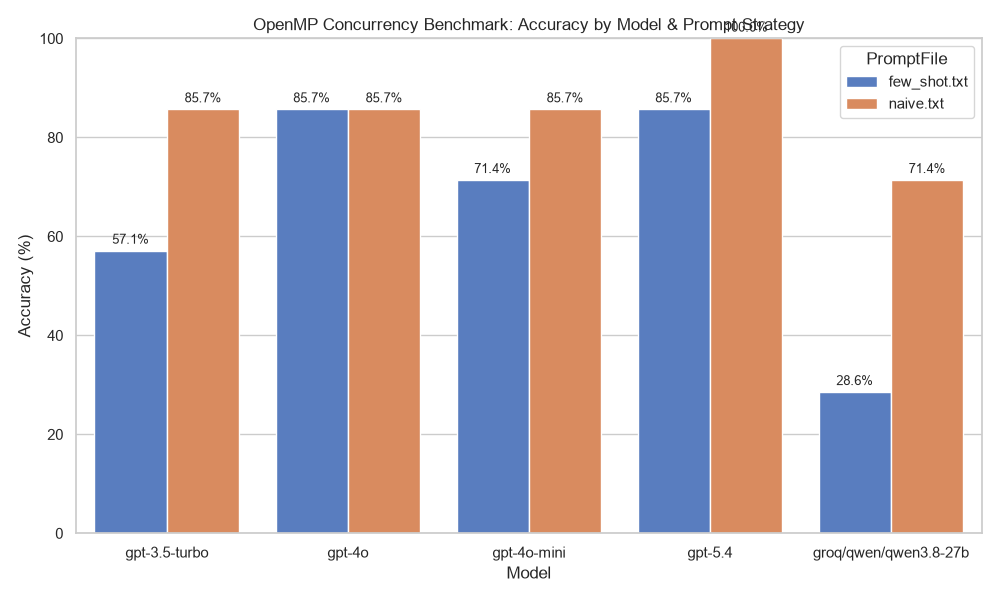
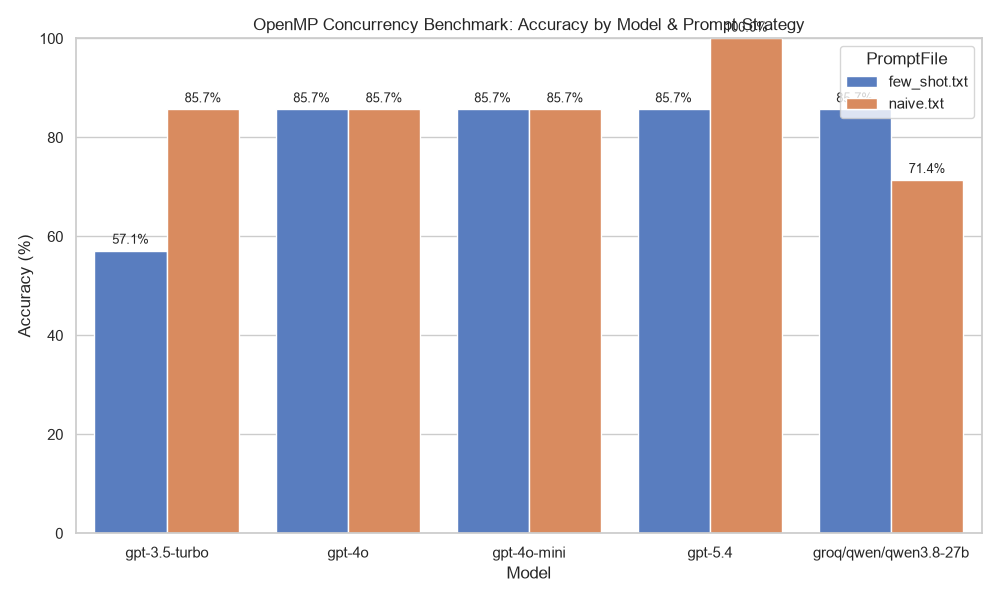
update to benchmarks after fixing results.csv manually to remove unknown

Changed region(s): [[0.806, 0.15, 0.899, 0.66], [0.434, 0.15, 0.527, 0.33]]

diff --git a/README.md b/README.md
@@ -29,7 +29,12 @@ This repository evaluates the capability of modern Large Language Models (LLMs) 
 ![Test Case Pass Rate Across All Models](testcase_pass_rate.png)
 
 #### Significance & Key Observations:
-* **High-Confidence Patterns**: `critical_section.c`, `drb_example.c`, and `flush_barrier_sync.c` saw the highest pass rates. Models excel at recognizing standard `#pragma omp critical` increments and identifying clear global variable data races.
+* **Frontier Model Leadership**: `gpt-5.4` achieved the highest overall accuracy at **92.9%**, reaching 100% pass rate under `naive.txt` prompting.
+* **Prompt Strategy Nuance**: 
+  * Few-shot prompting degraded performance for `gpt-3.5-turbo` (dropping from 85.7% to 57.1%) as the model tended to over-analyze safe synchronization patterns (e.g., `barrier_correct.c` and `task_depend_sync.c`).
+  * `groq/qwen/qwen3.8-27b` saw a performance gain under `few_shot.txt` (rising from 71.4% to 85.7%) once rate limits and response extractions were clean.
+  * Both `gpt-4o` and `gpt-4o-mini` maintained a stable **85.7%** accuracy across both prompt strategies.
+
 * **Scoping & Synchronization Blindspots**: `firstprivate_initialization.c` and `barrier_correct.c` proved to be the most challenging test cases across all models. LLMs frequently misinterpret whether private copies of variables modify the outer scope and struggle to correctly model `happens-before` relationships established by explicit barriers.
 
 ---
@@ -43,7 +48,6 @@ This repository evaluates the capability of modern Large Language Models (LLMs) 
 ├── results/            # Saved raw text outputs per model execution
 ├── results.csv         # Aggregated benchmark evaluation logs
 ├── run_eval.py         # LiteLLM test runner
-├── FINDINGS.md         # In-depth benchmark conclusions and bug analysis
 └── README.md
 ```
 
@@ -92,24 +96,22 @@ models/openai/gpt_5.4sh
 
 ## Key Takeaways
 
-1. **`gpt-5.4` and `gpt-4o` Standardize Top Performance**
-   - Both models performed reliably on standard code patterns, scoring 85.7% accuracy under `naive.txt`.
-   - `firstprivate_initialization.c` posed a challenge across multiple frontier models, as models frequently misinterpret scoping rules for private variable copies.
+1. **`gpt-5.4` Sets the Performance Baseline**
+   - `gpt-5.4` demonstrated top-tier accuracy at **92.9%** overall, correctly identifying all 7 OpenMP patterns under naive prompting and failing only 1 case under few-shot prompting.
 
-2. **Negative Delta in Few-Shot Prompting for Mid-Sized Models**
-   - Counterintuitively, `few_shot.txt` degraded accuracy for smaller models (`gpt-3.5-turbo` dropped from 85.7% to 57.1%). 
-   - Long reasoning demonstrations caused smaller models to overfit to negative examples, leading them to falsely flag safe constructs (e.g., `barrier_correct.c` and `task_depend_sync.c`) as `INCORRECT`.
+2. **Prompt Sensitivity Varies by Model Scale**
+   - In-context examples (`few_shot.txt`) caused `gpt-3.5-turbo` to overfit on negative patterns, incorrectly flagging valid synchronization as buggy.
+   - Conversely, `groq/qwen/qwen3.8-27b` performed better with structured few-shot examples once output formatting was cleanly parsed.
 
-3. **Rate Limits & Unparsed Output (`groq/qwen/qwen3.8-27b`)**
-   - On `few_shot.txt`, Qwen experienced high output token counts that hit API rate limits or generated extended reasoning blocks, resulting in `UNKNOWN` verdict extractions.
-   - Restricting max output tokens or enforcing fixed string formats (`VERDICT: CORRECT`) is necessary when benchmarking models on rate-limited tiers.
+3. **Consistent Mid-Tier Reliability**
+   - Both `gpt-4o` and `gpt-4o-mini` matched performance across prompting modes at **85.7%**, showing consistent handling of data races and OpenMP synchronization semantics.
 
 ## Accuracy Summary Table
 
 | Model | Naive Pass Rate | Few-Shot Pass Rate | Overall Accuracy |
 | :--- | :---: | :---: | :---: |
-| **gpt-5.4** | **85.7%** | **85.7%** | **85.7%** |
-| **gpt-4o** | **85.7%** | **85.7%** | **85.7%** |
-| **gpt-3.5-turbo** | 85.7% | 57.1% | 71.4% |
-| **gpt-4o-mini** | 85.7% | 57.1% | 71.4% |
-| **groq/qwen/qwen3.8-27b** | 71.4% | 28.6% | 50.0% |
+| **gpt-5.4** | **100.0%** (7/7) | 85.7% (6/7) | **92.9%** (13/14) |
+| **gpt-4o** | 85.7% (6/7) | 85.7% (6/7) | **85.7%** (12/14) |
+| **gpt-4o-mini** | 85.7% (6/7) | 85.7% (6/7) | **85.7%** (12/14) |
+| **groq/qwen/qwen3.8-27b** | 71.4% (5/7) | 85.7% (6/7) | **78.6%** (11/14) |
+| **gpt-3.5-turbo** | 85.7% (6/7) | 57.1% (4/7) | **71.4%** (10/14) |
